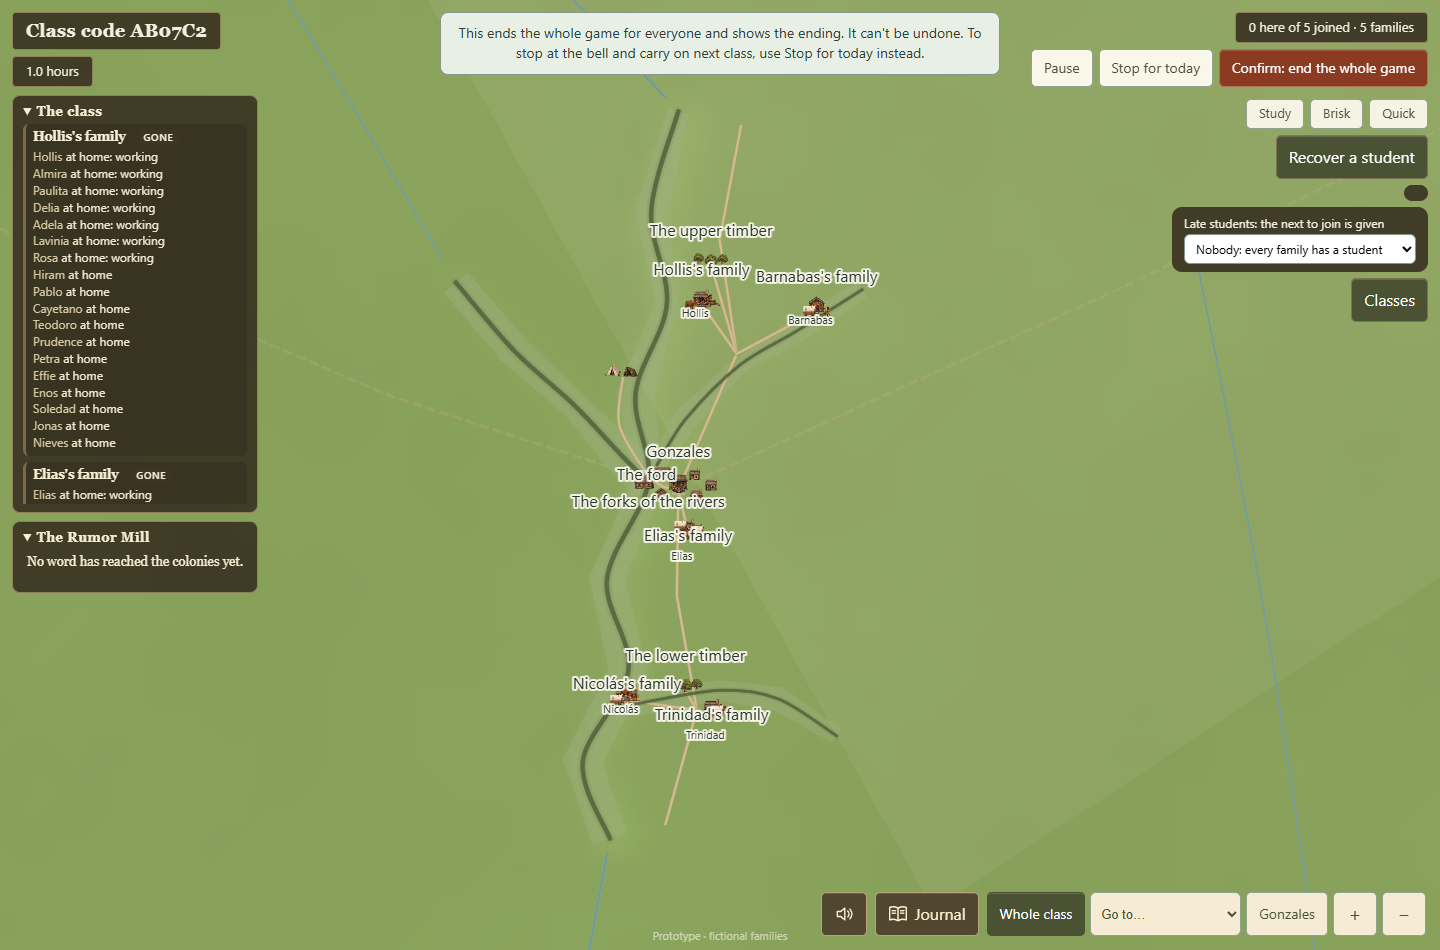
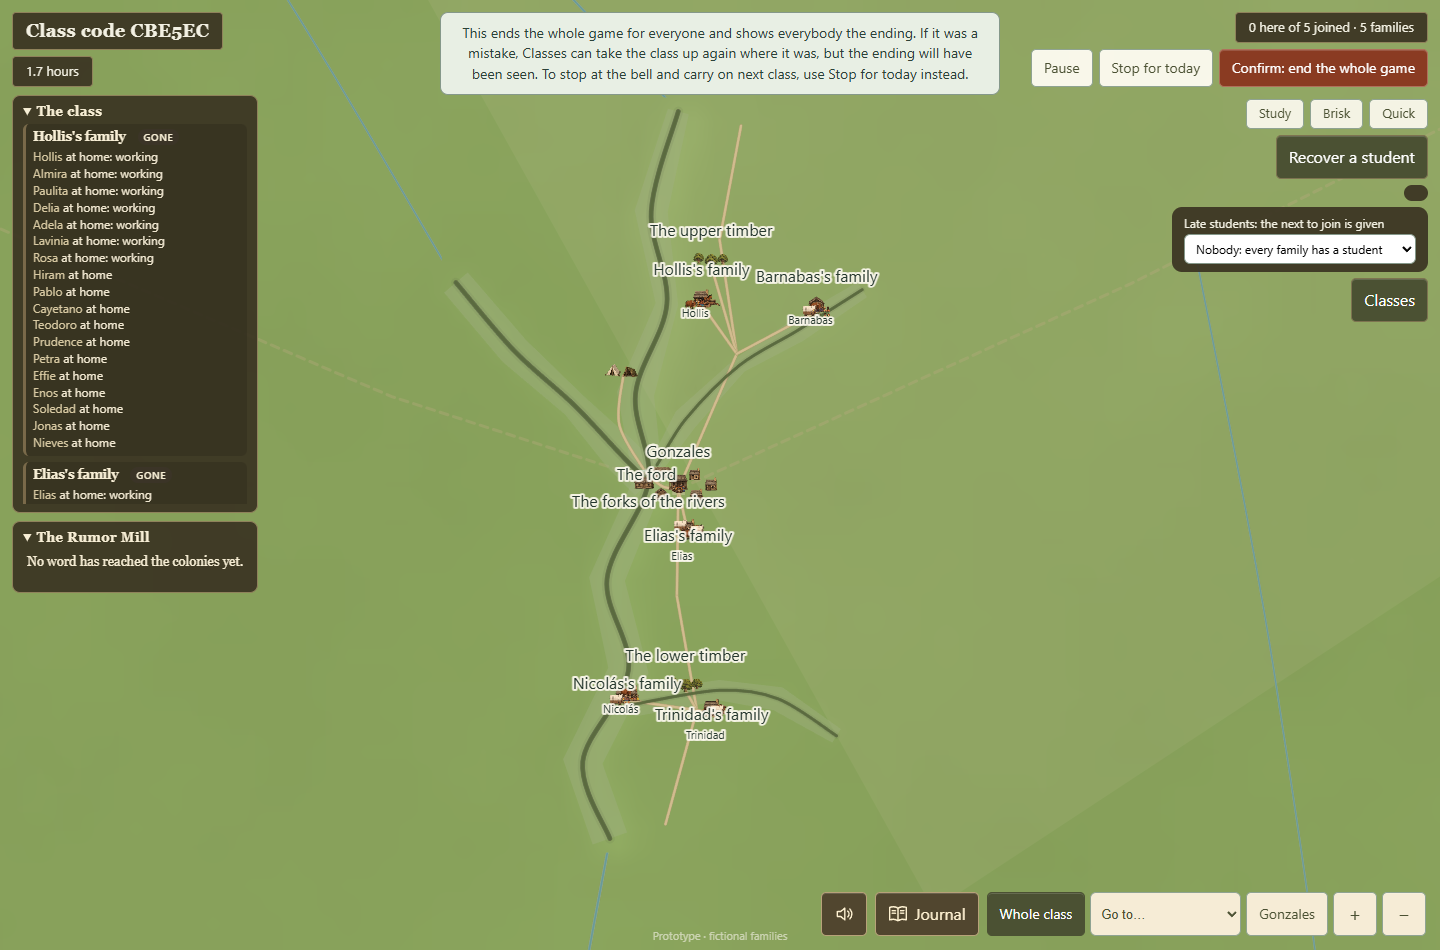
Continue a class ended by mistake part-way through a period, from Classes, paused; its ending and flashbacks go (owner 2026-09-28)

Changed region(s): [[0.2812, 0.0305, 0.7188, 0.1221], [0.0938, 0.0, 0.1562, 0.0611]]

diff --git a/public/class-panel.js b/public/class-panel.js
@@ -36,7 +36,7 @@ export function seatLabel(seat) {
 /** Where a kept class was left, in words. */
 export function classLine(entry) {
   const name = entry.name || `Class ${entry.code}`;
-  const where = entry.status === 'lobby' ? 'not started' : `${entry.status === 'ended' ? 'ended' : entry.status}, ${entry.date || ''}${entry.period ? ` (period ${entry.period})` : ''}`;
+  const where = entry.status === 'lobby' ? 'not started' : `${entry.status === 'ended' ? (entry.continuable ? 'ended part-way' : 'ended') : entry.status}, ${entry.date || ''}${entry.period ? ` (period ${entry.period})` : ''}`;
   return `${name} · code ${entry.code} · ${entry.joined} of ${entry.families} families joined · ${where}`;
 }
 
@@ -65,8 +65,16 @@ export function mountClassPanel({ $, api, command, element }) {
         const item = element('li', '', 'class-entry');
         item.dataset.classId = entry.id; item.dataset.open = String(entry.open);
         item.append(element('span', classLine(entry), 'class-line'));
-        if (entry.open) item.append(element('span', 'Open now', 'class-open'));
-        else {
+        if (entry.open) {
+          item.append(element('span', 'Open now', 'class-open'));
+          // Ended by End Game part-way through a period: it can be taken up again where it was, paused (owner, 2026-09-28).
+          if (entry.continuable) {
+            const again = element('button', 'Continue this class');
+            again.type = 'button'; again.dataset.classContinue = entry.id;
+            again.dataset.name = entry.name || `Class ${entry.code}`;
+            item.append(again);
+          }
+        } else {
           const open = element('button', 'Open');
           open.type = 'button'; open.dataset.classOpen = entry.id;
           open.dataset.name = entry.name || `Class ${entry.code}`;
@@ -84,6 +92,16 @@ export function mountClassPanel({ $, api, command, element }) {
     if (open) { listKey = ''; refreshList(); }
   });
   $('#classes-list')?.addEventListener('click', async event => {
+    const again = event.target.closest('[data-class-continue]');
+    if (again) {
+      if (!confirmed(again, `Confirm: continue ${again.dataset.name}`)) return;
+      try {
+        await command('continue-class');
+        note(`${again.dataset.name} is taken up again where End Game ended it, paused. Its ending and its flashbacks are gone; press Resume when the class is ready.`);
+        listKey = ''; refreshList();
+      } catch (error) { note(error.message); }
+      return;
+    }
     const button = event.target.closest('[data-class-open]');
     if (!button) return;
     if (!confirmed(button, `Confirm: open ${button.dataset.name}`)) return;

diff --git a/public/app.js b/public/app.js
@@ -160,7 +160,7 @@ function element(tag, content, className) { const el = document.createElement(ta
 const confirmLabel = { 'new-class': 'Confirm new class', 'stop-server': 'Confirm stop', end: 'Confirm: end the whole game', 'stop-for-today': 'Confirm: save and stop for today', 'send-for': 'Confirm: bring them home', 'winter-recall': 'Confirm: send for them', flee: 'Confirm: leave, and let it burn', 'flee-light': 'Confirm: leave most of it behind', 'flee-empty': 'Confirm: leave with nothing', 'flight-stay': 'Confirm: stay, and take the risk', 'road-abandon': 'Confirm: leave the wagon behind' };
 /** What an armed Host button does, said on the Host's notice line while it waits for the second press. */
 const confirmWords = {
-  end: 'This ends the whole game for everyone and shows the ending. It can\'t be undone. To stop at the bell and carry on next class, use Stop for today instead.',
+  end: 'This ends the whole game for everyone and shows everybody the ending. If it was a mistake, Classes can take the class up again where it was, but the ending will have been seen. To stop at the bell and carry on next class, use Stop for today instead.',
   'stop-for-today': 'This pauses the class and saves it where it stands, then closes the server. Next class, open the Host as usual: the class is there, paused, and Resume carries on.',
 };
 /**

diff --git a/public/flashback.js b/public/flashback.js
@@ -638,7 +638,15 @@ export function renderFlashback(snapshot) {
   const section = document.querySelector('#flashback');
   if (!section) return;
   const flashback = snapshot.flashback;
-  if (!flashback?.ready) { section.hidden = true; return; }
+  if (!flashback?.ready) {
+    section.hidden = true;
+    // A class ended by mistake and taken up again (docs/HOST_PAGE.md §2.8): what this page made or failed to make, played and
+    // read belongs to that ending, and its videos are gone from the server. When the class ends again it all starts afresh.
+    if (!making.running && (making.done.length || making.failed.size || shownKey || transcriptOf)) {
+      making.done.length = 0; making.failed.clear(); shownKey = ''; autoplayed = false; transcriptOf = null; queue = [];
+    }
+    return;
+  }
   section.hidden = false;
   const host = snapshot.world.role === 'host';
   document.querySelector('#flashback-host').hidden = !host;

diff --git a/docs/HOST_PAGE.md b/docs/HOST_PAGE.md
@@ -155,8 +155,10 @@ next class".
   class is saved paused all the same and the Host is told to close the server in its own window. The next launch opens the same
   save - the same class, day, families and keys - paused, with **Resume** offered.
 - **End Game** is asked twice, like New Class and Stop Server. Pressed once it reads *Confirm: end the whole game* and the
-  notice line says *"This ends the whole game for everyone and shows the ending. It can't be undone. To stop at the bell and
-  carry on next class, use Stop for today instead."*; left alone it disarms itself after six seconds and the words go.
+  notice line says *"This ends the whole game for everyone and shows everybody the ending. If it was a mistake, Classes can take
+  the class up again where it was, but the ending will have been seen. To stop at the bell and carry on next class, use Stop
+  for today instead."*; left alone it disarms itself after six seconds and the words go. (Until the owner's answer below the
+  words said *"It can't be undone."*)
 - **Who is absent is kept across the stop** (classroom audit S2, playthrough audit #2, 2026-09-28). What a page was last seen
   lives only in memory, and a relaunch began it empty, so every joined family counted as present: one saved absent was handed
   back to a student who was not there, the director stopped running it and its questions held the class; one whose student did
@@ -167,9 +169,26 @@ next class".
 - **Stop Server** is offered only in the lobby and after the end; while a class is under way Stop for today is the stop, with
   the words. The server still takes `stop-server` in any state (`Stop.vbs` uses it).
 
-`ceiling:` a class ended part-way through a period still cannot be continued: the confirmation and Stop for today make it hard
-to do by accident, but it is still final. Letting `canContinue` accept a class ended early (the audit's third direction) is the
-way out if a class is ever ended by mistake anyway.
+**A class ended by mistake is continued (owner, 2026-09-28, asked whether a class ended part-way through a period may be
+continued: *"Yes, allow Continue"*).** This replaces the `ceiling:` that stood here, *"a class ended part-way through a period
+still cannot be continued"*. End Game keeps its two presses.
+
+- **Which class.** One ended by End Game before its period reached its own end (`endedEarly` in `sim/periods.mjs`: ended, and
+  the director not `complete`). A period that ended where it ends goes on by its own button (*Continue to the winter of 1836*,
+  *… spring …*); the last period's end, the war's, is final. Those are refused in words (`continueRefusal`).
+- **Where.** In **Classes**, beside the class that is open, **Continue this class** (two presses; the list says *ended
+  part-way*). A class put away ended is opened first, then continued. Host action `continue-class`.
+- **What it restores.** End Game changes nothing in the world but its status, and while a class is ended nothing ticks and no
+  order is taken, so the class taken up again is the class the moment before End Game - its day, its people, its questions -
+  **paused**, for the teacher's Resume (`continueEnded`); the Host's record (`visibility: 'host'`) says it was taken up again.
+  Proved field by field: the world after is the world before but for the status and that one line
+  (`tests/classes.test.mjs`).
+- **What goes.** Everything End Game showed is read from the ended status and goes with it: the ending and the standings on
+  every page, the Host's winner, the offer of the flashbacks. **The flashback videos made for that ending are thrown away**
+  (`flashbacks.discard`, `server/flashback.mjs`: the class's folder under `flashbacks/`), and a Host page left open forgets what
+  it made and played (`public/flashback.js`); when the class ends again they are made afresh from the class as it then stands.
+- **What cannot be undone.** Everybody has seen the ending: students saw their numbers and the Host the winner. That is why End
+  Game still asks twice, and says so.
 
 ## 3. Proof
 

diff --git a/TECH.md b/TECH.md
@@ -285,7 +285,7 @@ A solo classroom also forces `listen` to `127.0.0.1` and refuses any request fro
 
 **Play Solo closes itself (2026-09-27).** `server/main.mjs --solo` passes `soloWatch` (`SOLO_WATCH` in `server/app.mjs`): when the last student event stream closes, a running game is committed `paused` and written at once (`soloLeft`), and if no student stream has opened `leaveMs` (30 s; `SOLO_LEAVE_MS` for proofs) later, the server calls `requestStop` itself (`soloGone`). A stream that opens in time resumes a game paused only by its leaving (`soloCame`); the player's own Pause is kept. `POST /api/solo` waits `enterMs` (two minutes, the ticket's life) for a page and `POST /api/solo/games` `chooseMs` (ten minutes) while the launcher's dialog is open. The watch exists only with `solo`, `soloWatch` and `onStopRequested` together, so the in-process classrooms of tests and proofs are never stopped under them, and a class never. A solo `close()` commits `paused` before writing. A solo player's page sends `solo-pause`, `solo-resume` and `solo-save` as orders, written at once (`when: 'now'`); a class refuses them. A continued solo game opens `paused`.
 
-Host actions are `start`, `pause`, `resume`, `stop-for-today`, `end`, `new-class` and `stop-server`; every other action reaches `applyAction` as a student intention and is rejected there. `stop-server` exists only when the process supplied an `onStopRequested` callback — `server/main.mjs` does, in-process test fixtures do not, and the Host projection carries a `canStop` flag so the control is never offered by a build that cannot honour it. It checkpoints a running class as **paused** before responding, because a saved running class resumes advancing on restart; then a transient `lifecycle` overlay is broadcast so connected browsers learn the teacher stopped the server before their streams end, and the process closes after a short flush delay.
+Host actions are `start`, `pause`, `resume`, `stop-for-today`, `end`, `continue-class`, `new-class` and `stop-server` (and the Classes panel's own, below); `continue-class` (2026-09-28, owner's "Yes, allow Continue") takes a class ended by End Game part-way through a period back to `paused` where it was (`continueEnded`/`endedEarly` in `sim/periods.mjs`) and throws away its flashback videos (`discard` in `server/flashback.mjs`), docs/HOST_PAGE.md §2.8. Every other action reaches `applyAction` as a student intention and is rejected there. `stop-server` exists only when the process supplied an `onStopRequested` callback — `server/main.mjs` does, in-process test fixtures do not, and the Host projection carries a `canStop` flag so the control is never offered by a build that cannot honour it. It checkpoints a running class as **paused** before responding, because a saved running class resumes advancing on restart; then a transient `lifecycle` overlay is broadcast so connected browsers learn the teacher stopped the server before their streams end, and the process closes after a short flush delay.
 
 `stop-for-today` (2026-09-28, design audit B2, `docs/HOST_PAGE.md` §2.8) is refused unless the class is `running` or `paused`; it commits the class `paused` and writes it at once, like every Host command, and then, when `onStopRequested` exists, stops as `stop-server` does with the lifecycle message `STOPPED_FOR_TODAY`; without one it answers `stoppedForToday` and no `stopping`, and the page says the server must be closed in its own window. It never ends the class, so the next launch opens it paused for **Resume**. The Host page offers it while a class is under way and `stop-server` only in the lobby and after the end; End Game (`end`) and Stop for today are both asked twice in the page, and End Game's armed state says in words on `#host-notice` that it ends the whole game for everyone and cannot be undone (`confirmWords` in `public/app.js`).
 

diff --git a/HANDOFF.md b/HANDOFF.md
@@ -256,7 +256,8 @@ playthrough #2) is fixed with it.
   only in the lobby and after the end. The next launch opens the class paused; Resume carries on. **Absences are kept across
   the relaunch** (`seedPresence`): a family saved absent stays absent until its page opens, and one whose student does not come
   back is absent the grace after the launch (before, every joined family counted present, and an absent family's questions held
-  the class). `ceiling:` a class ended part-way through a period is still final. **With the classroom blockers (e549ec1)**:
+  the class). ~~`ceiling:` a class ended part-way through a period is still final.~~ (Continued since the owner's "Yes, allow
+  Continue", 2026-09-28: see the section on it.) **With the classroom blockers (e549ec1)**:
   Stop for today sits beside the Classes panel; a class opened again from Classes uses the same `seedPresence` (it had started
   every family's clock at the switch, so a family left absent was handed back to nobody); HOST_PAGE's section is §2.8, after
   the Classes' §2.7.
